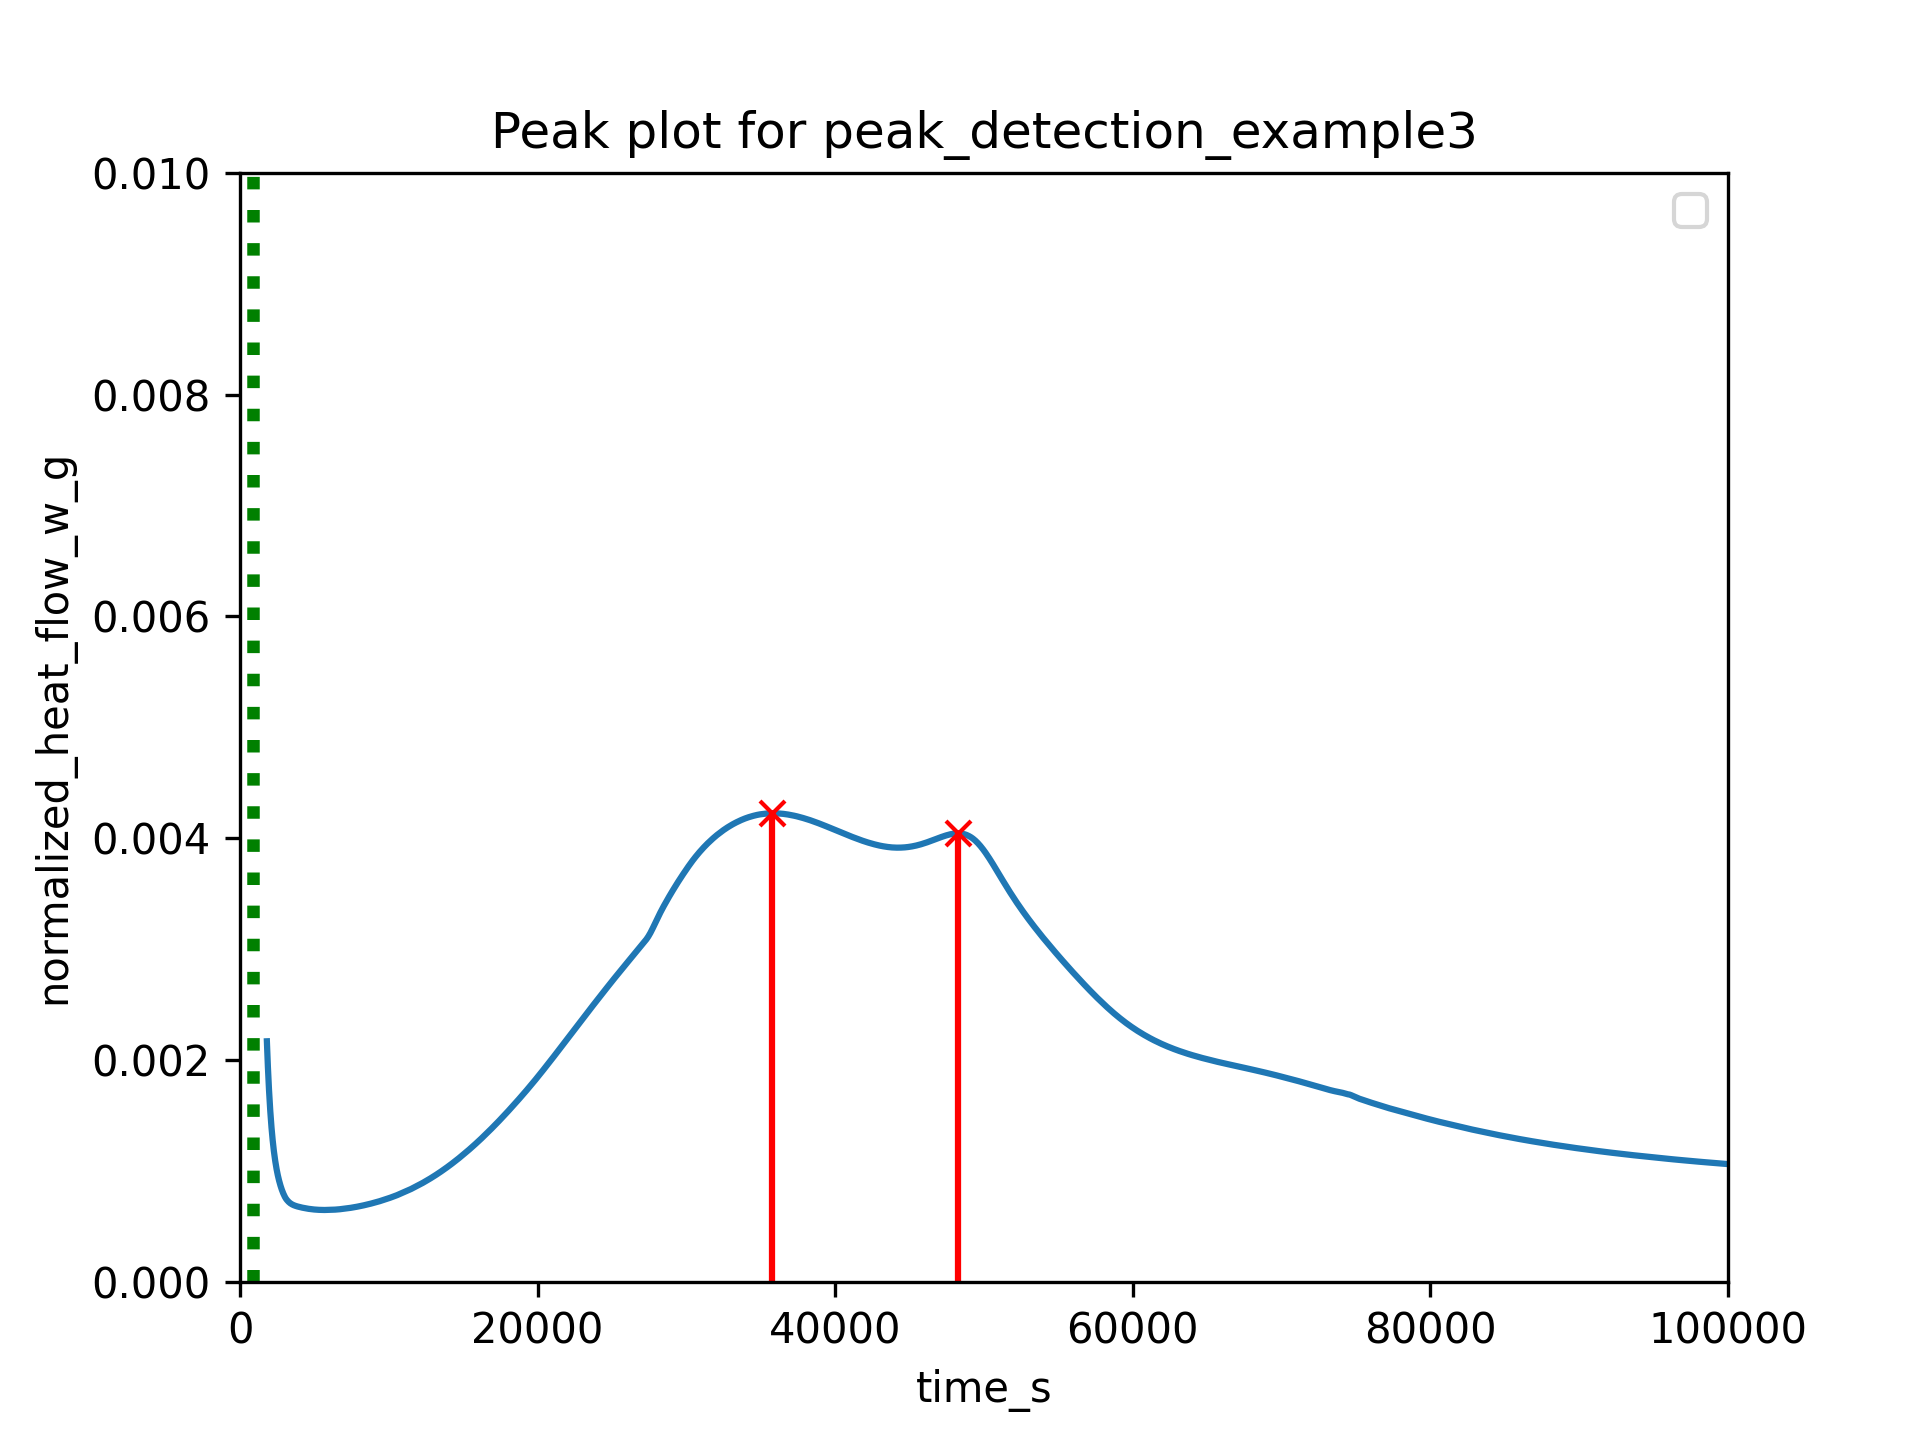
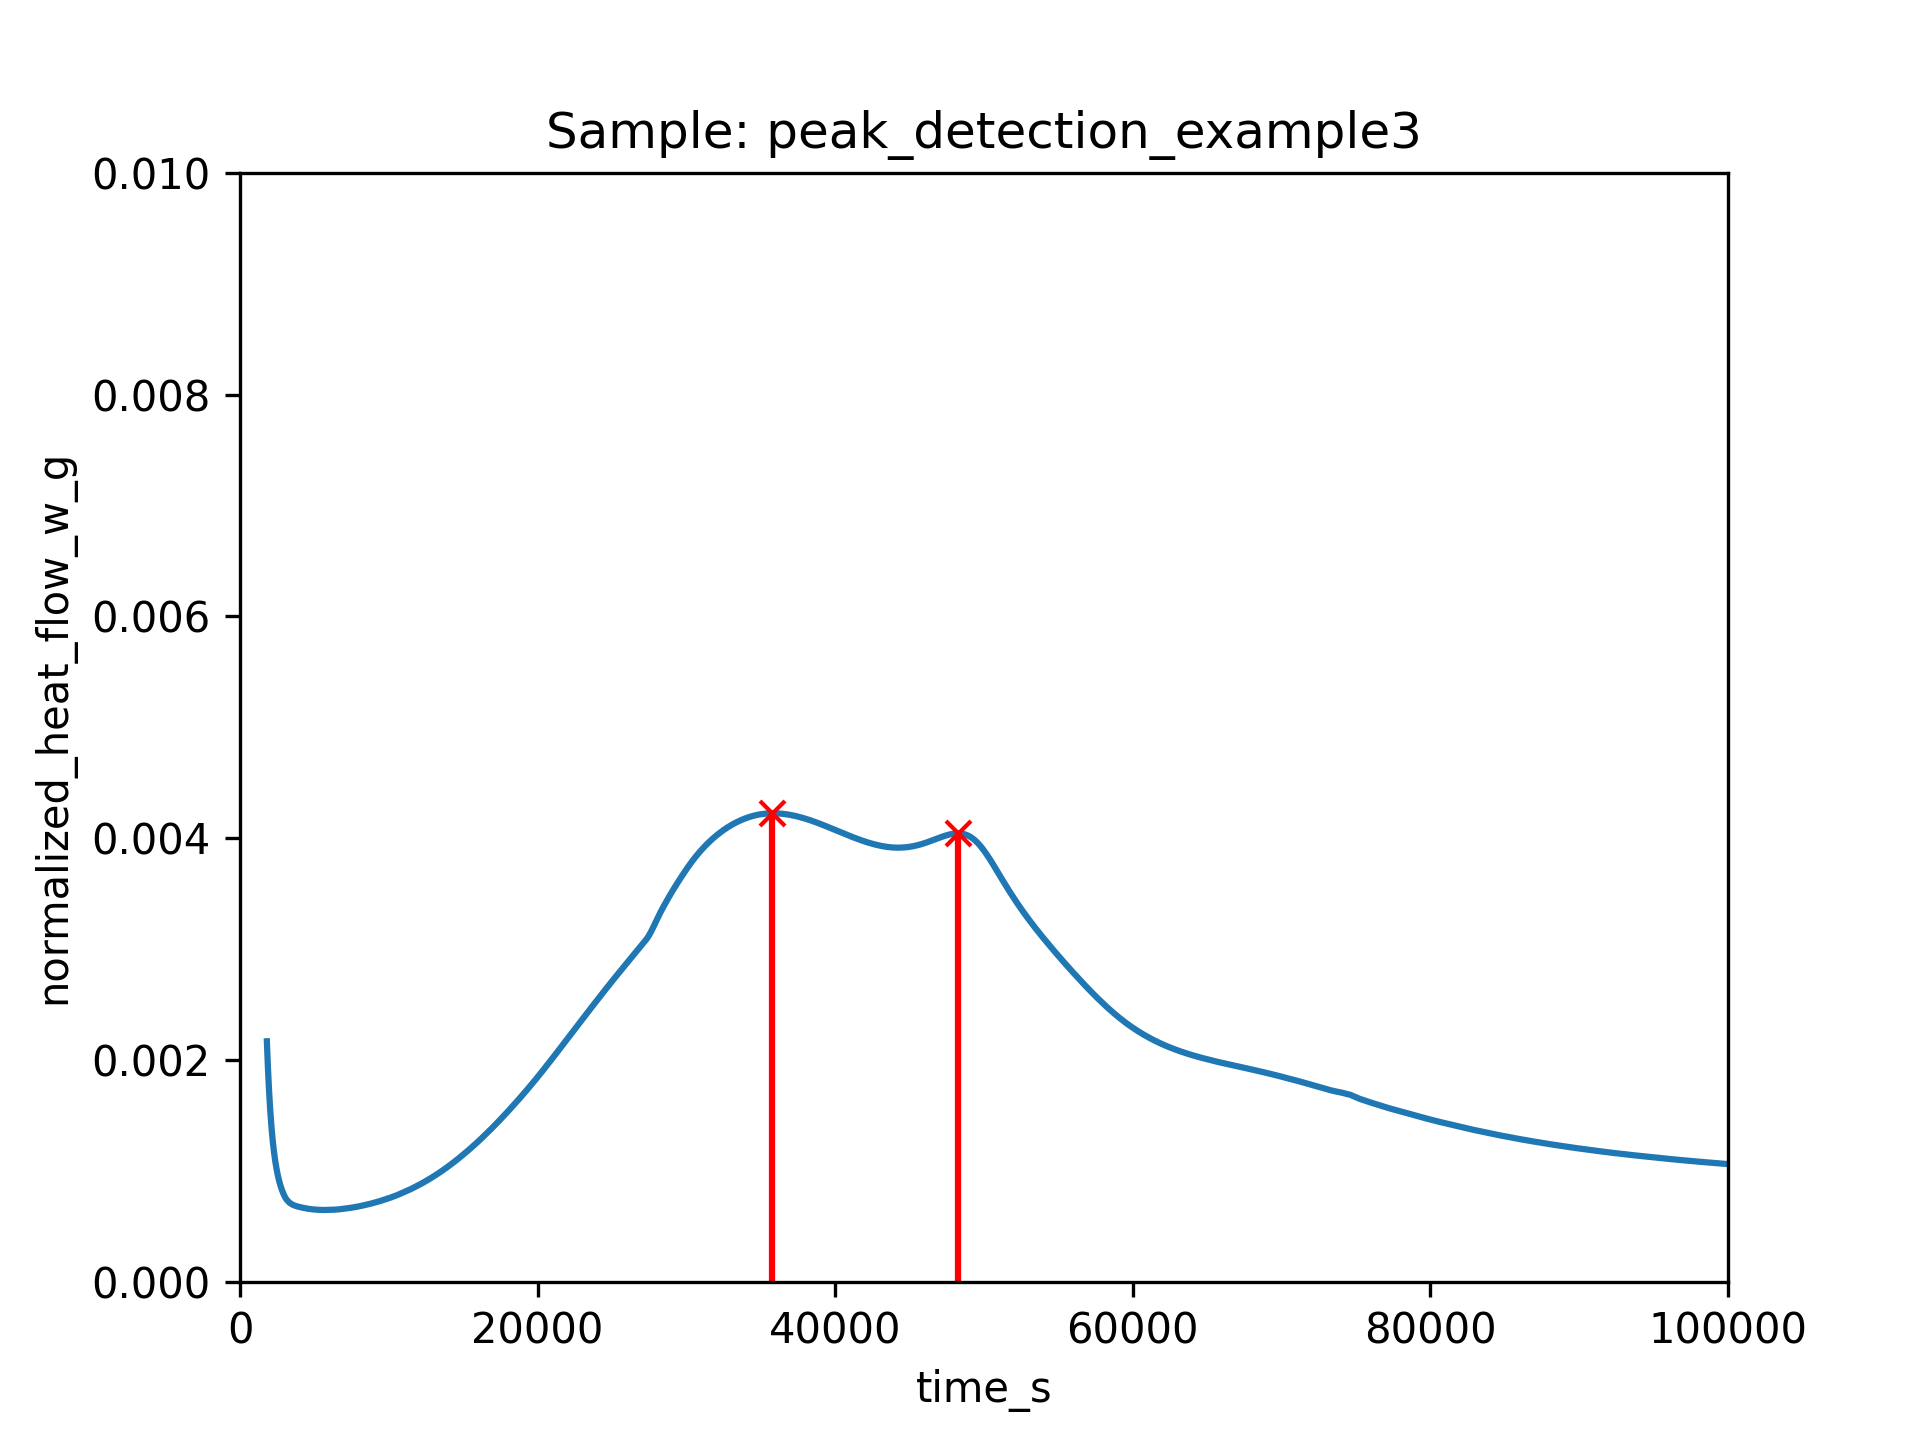
refactored plotting for extracted features

diff --git a/TAInstCalorimetry/tacalorimetry.py b/TAInstCalorimetry/tacalorimetry.py
@@ -853,17 +853,36 @@ class Measurement:
         ax=None,
     ):
         """
-        plot  of
-            - normalizedheatflow
-            - normalizedheat
 
-        in SI-units and "practical" units
+        Plot the calorimetry data.
 
-        with time units of
-            - s
-            - min
-            - h
-            - d
+        Parameters
+        ----------
+        t_unit : str, optional
+            time unit. The default is "h". Options are "s", "min", "h", "d".
+        y : str, optional
+            y-axis. The default is "normalized_heat_flow_w_g". Options are
+            "normalized_heat_flow_w_g", "heat_flow_w", "normalized_heat_j_g",
+            "heat_j".
+        y_unit_milli : bool, optional
+            whether or not to plot y-axis in Milliwatt. The default is True.
+        regex : str, optional
+            regex pattern to include only certain samples during plotting. The
+            default is None.
+        show_info : bool, optional
+            whether or not to show information. The default is True.
+        ax : matplotlib.axes._axes.Axes, optional
+            axis to plot to. The default is None.
+
+        Examples
+        --------
+        >>> import TAInstCalorimetry as ta
+        >>> from pathlib import Path
+        >>>
+        >>> calodatapath = Path(__file__).parent
+        >>> tam = ta.Measurement(folder=calodatapath, show_info=True)
+        >>> tam.plot(t_unit="h", y="normalized_heat_flow_w_g", y_unit_milli=False)
+
         """
 
         # y-value
@@ -1016,6 +1035,16 @@ class Measurement:
         y_unit_milli : TYPE, optional
             see "self.plot". The default is True.
 
+        Examples
+        --------
+        >>> import TAInstCalorimetry as ta
+        >>> from pathlib import Path
+        >>>
+        >>> calodatapath = Path(__file__).parent
+        >>> tam = ta.Measurement(folder=calodatapath, show_info=True)
+        >>> tam.plot_by_category(categories="sample")
+
+
         Returns
         -------
         None.
@@ -1076,19 +1105,15 @@ class Measurement:
             # yield latest plot
             yield selections, ax
 
-    def plot_peak_positions(
-        self, data, ax, _age_col, _target_col, peaks, sample, plt_top, plt_right_s
+    @staticmethod
+    def _plot_peak_positions(
+        data, ax, _age_col, _target_col, peaks, sample, plt_top, plt_right_s
     ):
         """
         Plot detected peaks.
         """
-        if isinstance(ax, matplotlib.axes._axes.Axes):
-            ax.plot(data[_age_col], data[_target_col])
-            new_ax = False
-        else:
-            new_ax = True
-            fig, ax = plt.subplots()
-            ax.plot(data[_age_col], data[_target_col])
+
+        ax, new_ax = utils.create_base_plot(data, ax, _age_col, _target_col)
 
         ax.plot(
             data[_age_col][peaks],
@@ -1103,32 +1128,20 @@ class Measurement:
             ymax=data[_target_col][peaks],
             color="red",
         )
-        # add "barrier"
-        ax.axvline(15 * 60, color="green", linestyle=":", linewidth=3)
-        # figure cosmetics
-        ax.legend(loc="best")
-        ax.set_xlim(left=0)
-        ax.set_xlim(right=plt_right_s)
-        ax.set_ylim(bottom=0)
-        ax.set_ylim(top=plt_top)
-        ax.set_xlabel(_age_col)
-        ax.set_ylabel(_target_col)
-        ax.set_title("Peak plot for " + pathlib.Path(sample).stem)
+
+        ax = utils.style_base_plot(
+            ax, _target_col, _age_col, sample, plt_top, plt_right_s
+        )
 
         if new_ax:
             plt.show()
 
-    def plot_maximum_slope(
-        self, data, ax, age_col, target_col, sample, characteristics, time_discarded_s
+    @staticmethod
+    def _plot_maximum_slope(
+        data, ax, age_col, target_col, sample, characteristics, time_discarded_s
     ):
+        ax, new_ax = utils.create_base_plot(data, ax, age_col, target_col)
 
-        if isinstance(ax, matplotlib.axes._axes.Axes):
-            new_ax = False
-        else:
-            new_ax = True
-            fig, ax = plt.subplots()
-
-        ax.plot(data[age_col], data[target_col], label=target_col)
         ax.plot(
             data[age_col],
             data["gradient"] * 1e4 + 0.001,
@@ -1140,27 +1153,14 @@ class Measurement:
             # vline
             ax.axvline(_row.at[age_col], color="green", alpha=0.3)
 
-        # cosmetics
-        ax.set_xscale("log")
-        ax.set_title(f"Maximum slope plot for {pathlib.Path(sample).stem}")
-        ax.set_xlabel(age_col)
-        ax.set_ylabel(target_col)
-        ax.legend()
-
-        # # get axis
-        # ax = plt.gca()
-
-        ax.fill_between(
-            [ax.get_ylim()[0], time_discarded_s],
-            [ax.get_ylim()[0]] * 2,
-            [ax.get_ylim()[1]] * 2,
-            color="black",
-            alpha=0.35,
+        ax = utils.style_base_plot(
+            ax, target_col, age_col, sample, time_discarded_s=time_discarded_s
         )
 
-        # set axis limit
+        # # set axis limit
         ax.set_xlim(left=100)
         ax.set_ylim(bottom=0, top=0.01)
+        ax.set_xscale("log")
 
         if new_ax:
             plt.show()
@@ -1315,7 +1315,7 @@ class Measurement:
 
             # plot?
             if show_plot:
-                self.plot_peak_positions(
+                self._plot_peak_positions(
                     data, ax, _age_col, _target_col, peaks, sample, plt_top, plt_right_s
                 )
 
@@ -1360,6 +1360,7 @@ class Measurement:
     ):
         """
         get peak onsets based on a criterion of minimum gradient
+
         Parameters
         ----------
         target_col : str, optional
@@ -1572,7 +1573,7 @@ class Measurement:
 
             # optional plotting
             if show_plot:
-                self.plot_maximum_slope(
+                self._plot_maximum_slope(
                     data,
                     ax,
                     age_col,

diff --git a/TAInstCalorimetry/utils.py b/TAInstCalorimetry/utils.py
@@ -1,8 +1,53 @@
+import matplotlib
+import matplotlib.pyplot as plt
 import numpy as np
 import pandas as pd
 from scipy.interpolate import InterpolatedUnivariateSpline, UnivariateSpline
 from scipy.signal import convolve, gaussian
 from scipy.ndimage import median_filter
+from pathlib import Path
+
+
+def create_base_plot(data, ax, _age_col, _target_col):
+    """
+    create base plot
+    """
+    if isinstance(ax, matplotlib.axes._axes.Axes):
+        new_ax = False
+    else:
+        new_ax = True
+        _, ax = plt.subplots()
+
+    ax.plot(data[_age_col], data[_target_col])
+    return ax, new_ax
+
+
+def style_base_plot(
+    ax, _target_col, _age_col, sample, plt_top=None, plt_right_s=None, time_discarded_s=None
+):
+    """
+    style base plot
+    """
+    ax.set_ylabel(_target_col)
+    ax.set_xlabel(_age_col)
+    ax.set_title(f"Sample: {Path(sample).stem}")
+    if plt_top is not None:
+        ax.set_ylim(0, plt_top)
+    if plt_right_s is not None:
+        ax.set_xlim(0, plt_right_s)
+    if time_discarded_s is not None:
+        print("time_discarded_s", time_discarded_s)
+        ax.fill_between(
+            [ax.get_ylim()[0], time_discarded_s],
+            [ax.get_ylim()[0]] ,
+            [ax.get_ylim()[1]] ,
+            color="black",
+            alpha=0.35,
+        )
+    ax.set_ylim(0, plt_top)
+    ax.legend()
+    return ax
+
 
 #
 # conversion of DataFrame to float
@@ -104,7 +149,7 @@ def fit_univariate_spline(df, target_col, s=1e-6):
 #         df["first_derivative"] = np.gradient(df["norm_hf_smoothed"], df["time_s"])
 #     else:
 #         df["first_derivative"] = np.gradient(df["normalized_heat_flow_w_g"], df["time_s"])
-        
+
 #     df["first_derivative"] = df["first_derivative"].fillna(value=0)
 
 #     if tianparams.median_filter["apply"]:

diff --git a/examples/example_plot_ta_onsets_to_subplots.py b/examples/example_plot_ta_onsets_to_subplots.py
@@ -1,17 +1,14 @@
-import sys
 from pathlib import Path
-
-parentfolder = Path(__file__).cwd().parent
-sys.path.insert(0, parentfolder.as_posix())
-
 import TAInstCalorimetry.tacalorimetry as ta
+
+parentfolder = Path(__file__).parent.parent
 
 datapath = parentfolder / "TAInstCalorimetry" / "DATA"
 
 # experiments via class
 tam = ta.Measurement(
     folder=datapath,
-    regex=r"myexp[1-3].csv",
+    regex=r".*data_[1-3].csv",
     show_info=True,
     auto_clean=False,
     cold_start=True,
@@ -21,7 +18,7 @@ tam = ta.Measurement(
 # %% plot
 
 # init
-fig, axs = ta.plt.subplots(1, 3, layout="constrained")
+fig, axs = ta.plt.subplots(1, 3, layout="constrained", sharey=True)
 
 # populate subplots
 for i, grad in enumerate([5e-9, 3e-8, 7e-8]):
@@ -38,3 +35,4 @@ for i, grad in enumerate([5e-9, 3e-8, 7e-8]):
     ax.set_xlim(0, 60000)
     ax.set_ylim(0, 0.003)
     ax.set_title(f"{grad:.1e}")
+# %%
